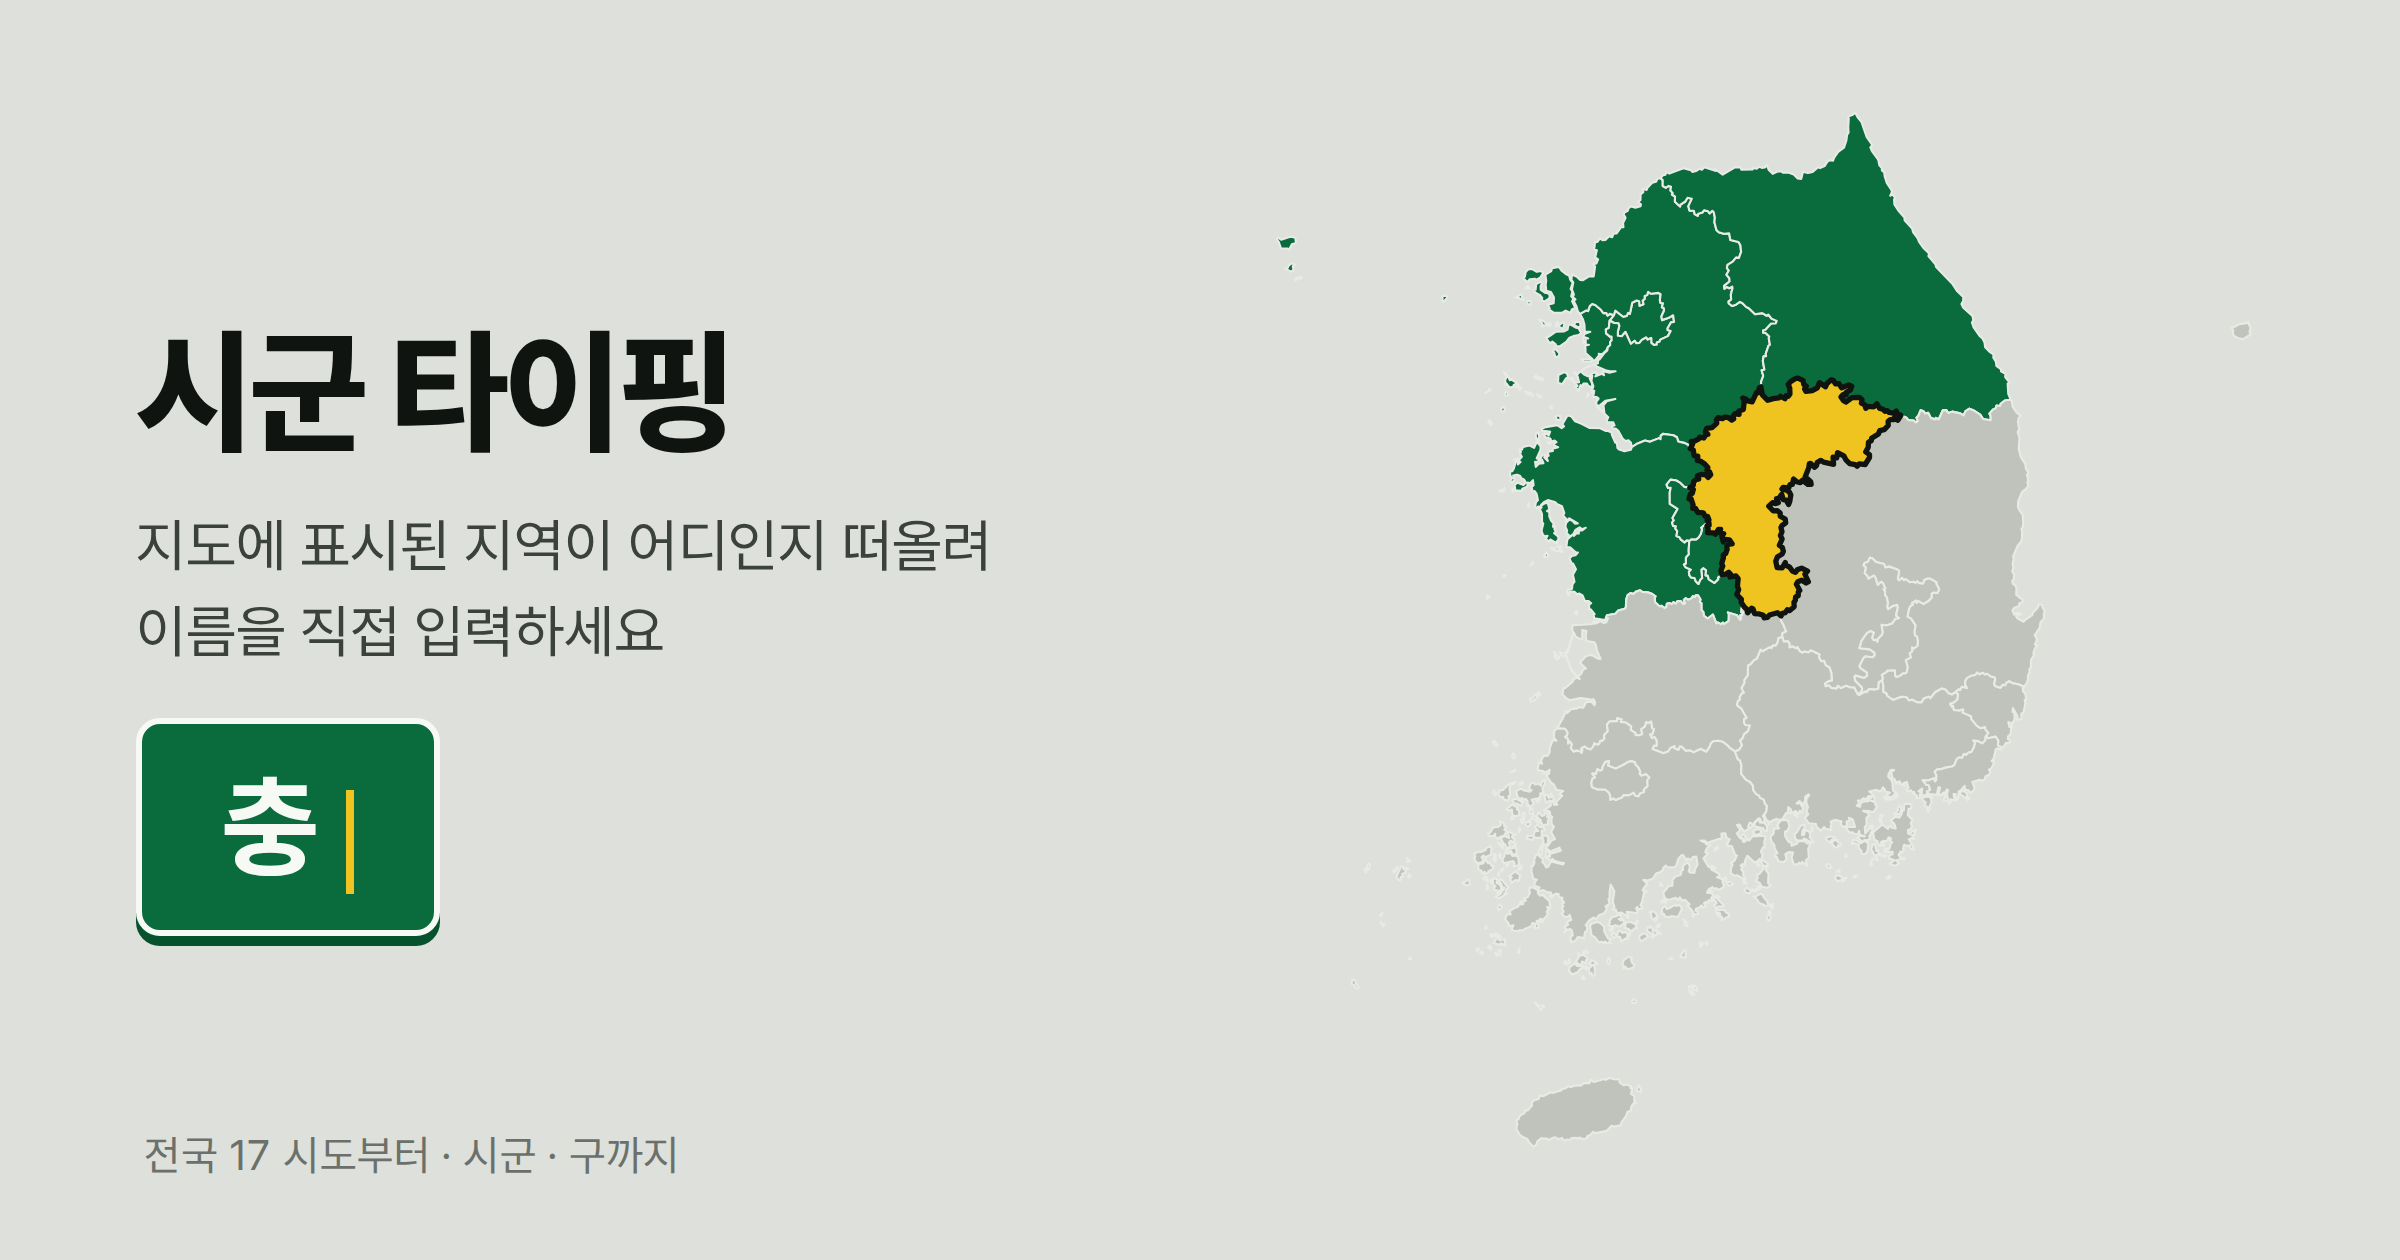
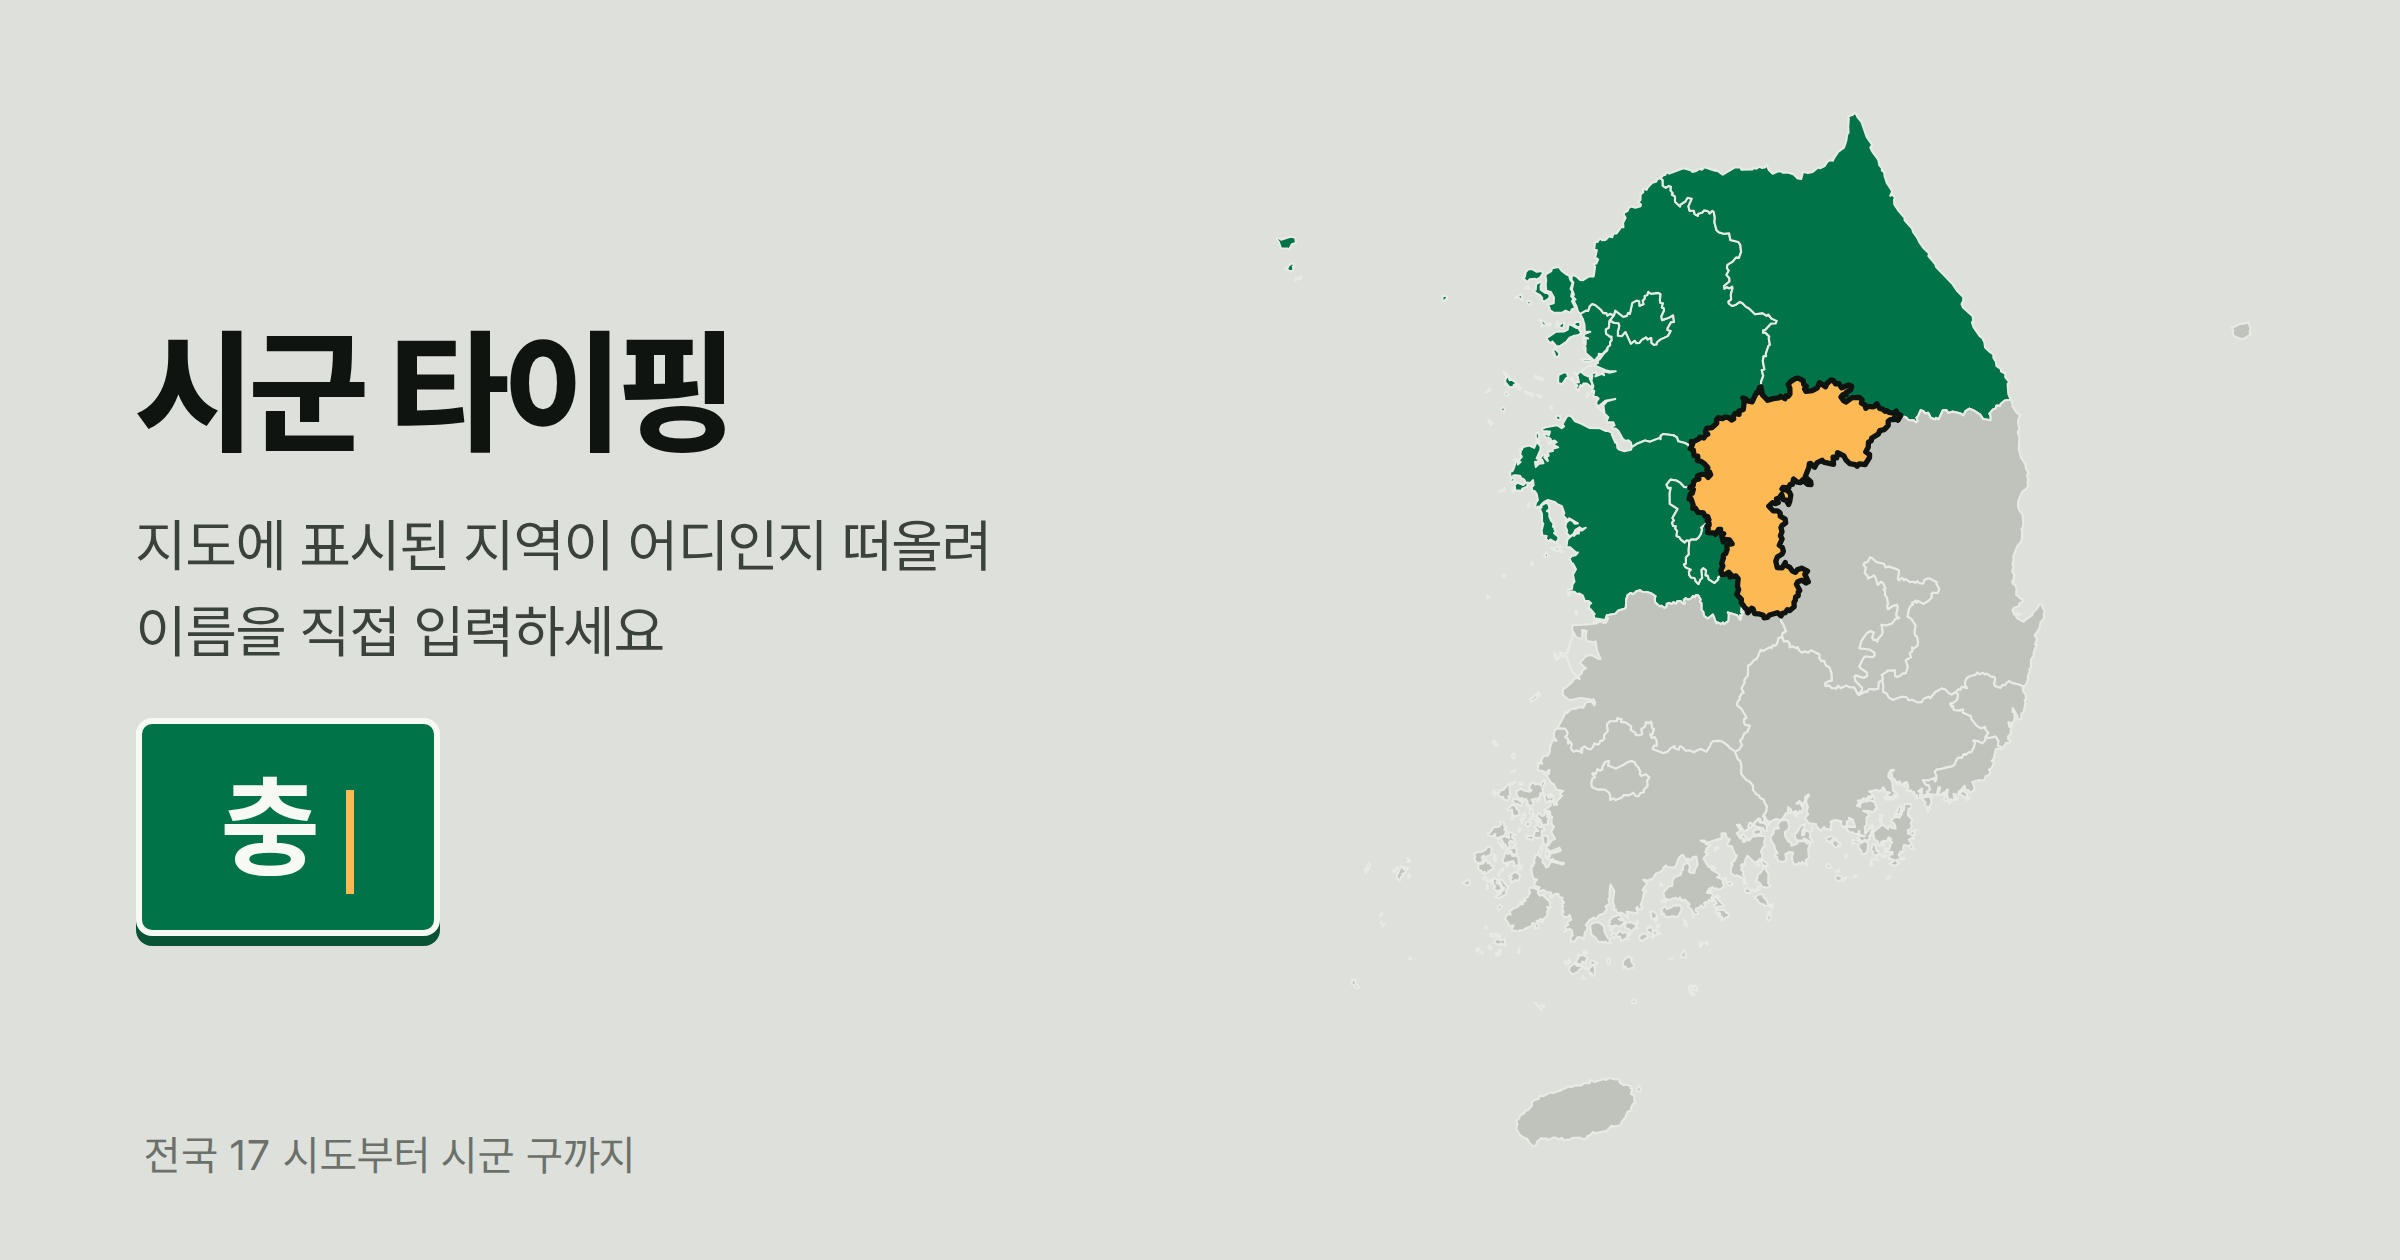
초대 링크에 무슨 판인지를 싣는다
단톡방에 붙은 초대 링크가 `같이 한 판 하자` 한 줄로 갔다. 무슨 코스인지는
주소 안에만 있어서 눌러 봐야 알았고, 미리보기는 루트 카드라 "시군 타이핑은
이런 게임입니다" 소개가 떴다 — 방에 들어오라는 말이 사이트 홍보로 읽혔다.

문구가 코스를 들고 간다. 카드가 아니라 문구로 하는 이유: 방마다 다른 카드를
만들려면 소켓 서버에 방 조회 경로를 새로 열어야 하고, `3명 대기 중` 같은 값은
카카오톡이 카드를 캐시하는 순간 굳어 금세 거짓말이 된다. 방은 몇 분짜리
물건이라 카드와 수명이 안 맞는다.

대신 /rooms에 고정 카드 한 장을 둔다. 진행 막대 넷이 서로 다른 데까지 차 있는
순위표다 — 같은 지도를 여럿이 동시에 달린다는 것이 이 화면에서 유일하게 다른
점이고, 그 그림이 문장 없이 그 말을 한다.

카드 두 장의 색을 규격 초록으로 다시 구웠다. 화면만 바꾸고 카드를 두면 링크
미리보기만 옛 색으로 남는다. 가운데점도 걷었다.

대기실의 `링크를 받은 사람은 이름만 넣으면 바로 들어옵니다`는 눌러 보면 아는
것이다. 정원만 남긴다.

Changed region(s): [[0.6875, 0.3095, 0.7812, 0.4952], [0.1875, 0.8976, 0.2812, 0.9286], [0.125, 0.65, 0.1562, 0.681]]

diff --git a/components/MultiRoom.tsx b/components/MultiRoom.tsx
@@ -373,7 +373,7 @@ export function MultiRoom({ initialCode }: MultiRoomProps) {
         onLeave={leave}
       />
 
-      <InviteLink code={room.id} />
+      <InviteLink code={room.id} courseName={course?.name ?? room.courseId} />
 
       <Standings
         players={room.players}
@@ -634,22 +634,35 @@ function RoomHeader({
  * 받아쓰게 하면 단톡방에서 오타가 나고, 오타가 나면 그 사람은 안 들어온다.
  * 링크를 누른 사람은 이름만 넣고 바로 방에 들어간다.
  */
-function InviteLink({ code }: { code: string }) {
+function InviteLink({ code, courseName }: { code: string; courseName: string }) {
   const [copied, setCopied] = useState(false);
+
+  /*
+   * 문구에 코스를 싣는다.
+   *
+   * 여태 `같이 한 판 하자` 한 줄이라, 무슨 판인지가 링크 안에만 있었다. 단톡방에
+   * 붙은 주소를 눌러 봐야 아는 것과 붙은 자리에서 읽히는 것은 다르다.
+   *
+   * 카드로 하지 않는 이유는 페이지 쪽에 적어 두었다. 문구는 카카오톡이든
+   * 디스코드든 문자든 어디서나 같게 나가고, 캐시되어 굳지도 않는다.
+   */
+  const text = `시군 타이핑\n${courseName}\n\n같이 한 판?`;
 
   const copy = async () => {
     // 주소는 누를 때 만든다. 렌더 중에 window를 읽으면 서버 렌더와 어긋난다.
     const url = `${window.location.origin}/rooms?code=${code}`;
     if (navigator.share) {
       try {
-        await navigator.share({ title: "시군 타이핑", text: "같이 한 판 하자", url });
+        await navigator.share({ title: "시군 타이핑", text, url });
         return;
       } catch {
         return;
       }
     }
     try {
-      await navigator.clipboard.writeText(url);
+      // 시트가 없는 곳에서는 문구와 주소를 함께 넘긴다. 주소만 가면 아까 그
+      // 한 줄로 되돌아가는 셈이다.
+      await navigator.clipboard.writeText(`${text}\n${url}`);
       setCopied(true);
       setTimeout(() => setCopied(false), 2500);
     } catch {
@@ -666,9 +679,8 @@ function InviteLink({ code }: { code: string }) {
       >
         {copied ? "복사했습니다 — 단톡방에 붙여 넣으세요" : "친구 초대 링크 복사"}
       </button>
-      <p className="text-sm text-dim">
-        링크를 받은 사람은 이름만 넣으면 바로 들어옵니다. 최대 8명.
-      </p>
+      {/* `이름만 넣으면 들어옵니다`는 눌러 보면 아는 것이다. 남길 값은 정원뿐이다. */}
+      <p className="font-mono text-sm text-dim">최대 8명</p>
     </div>
   );
 }

diff --git a/app/(site)/rooms/page.tsx b/app/(site)/rooms/page.tsx
@@ -3,6 +3,31 @@ import { MultiRoom } from "@/components/MultiRoom";
 export const metadata = {
   title: "친구와 대결",
   description: "방을 만들고 코드를 알려 주면 최대 8명이 같은 코스를 함께 달립니다.",
+  /*
+   * 초대 링크 전용 카드.
+   *
+   * 이 주소는 대개 단톡방에 붙는다. 루트 카드를 그대로 물려받으면 "시군
+   * 타이핑은 이런 게임입니다" 소개가 떠서, 방에 들어오라는 말이 사이트
+   * 홍보로 읽힌다.
+   *
+   * 방마다 다른 카드는 만들지 않는다. 방 상태는 소켓 서버 메모리에만 있어
+   * 조회 경로를 새로 열어야 하고, `3명 대기 중` 같은 값은 카카오톡이 카드를
+   * 캐시하는 순간 굳어 금세 거짓말이 된다 — 방은 몇 분짜리 물건이라 카드와
+   * 수명이 안 맞는다. 지금 몇 명인지는 링크를 누르면 바로 보인다.
+   */
+  openGraph: {
+    title: "친구와 대결",
+    description: "같은 코스를 최대 8명이 동시에 달립니다.",
+    url: "/rooms",
+    images: [
+      {
+        url: "/og-rooms.png",
+        width: 1200,
+        height: 630,
+        alt: "네 사람의 진행 막대가 서로 다른 데까지 차 있는 순위표",
+      },
+    ],
+  },
 };
 
 export default async function RoomsPage({ searchParams }: PageProps<"/rooms">) {
